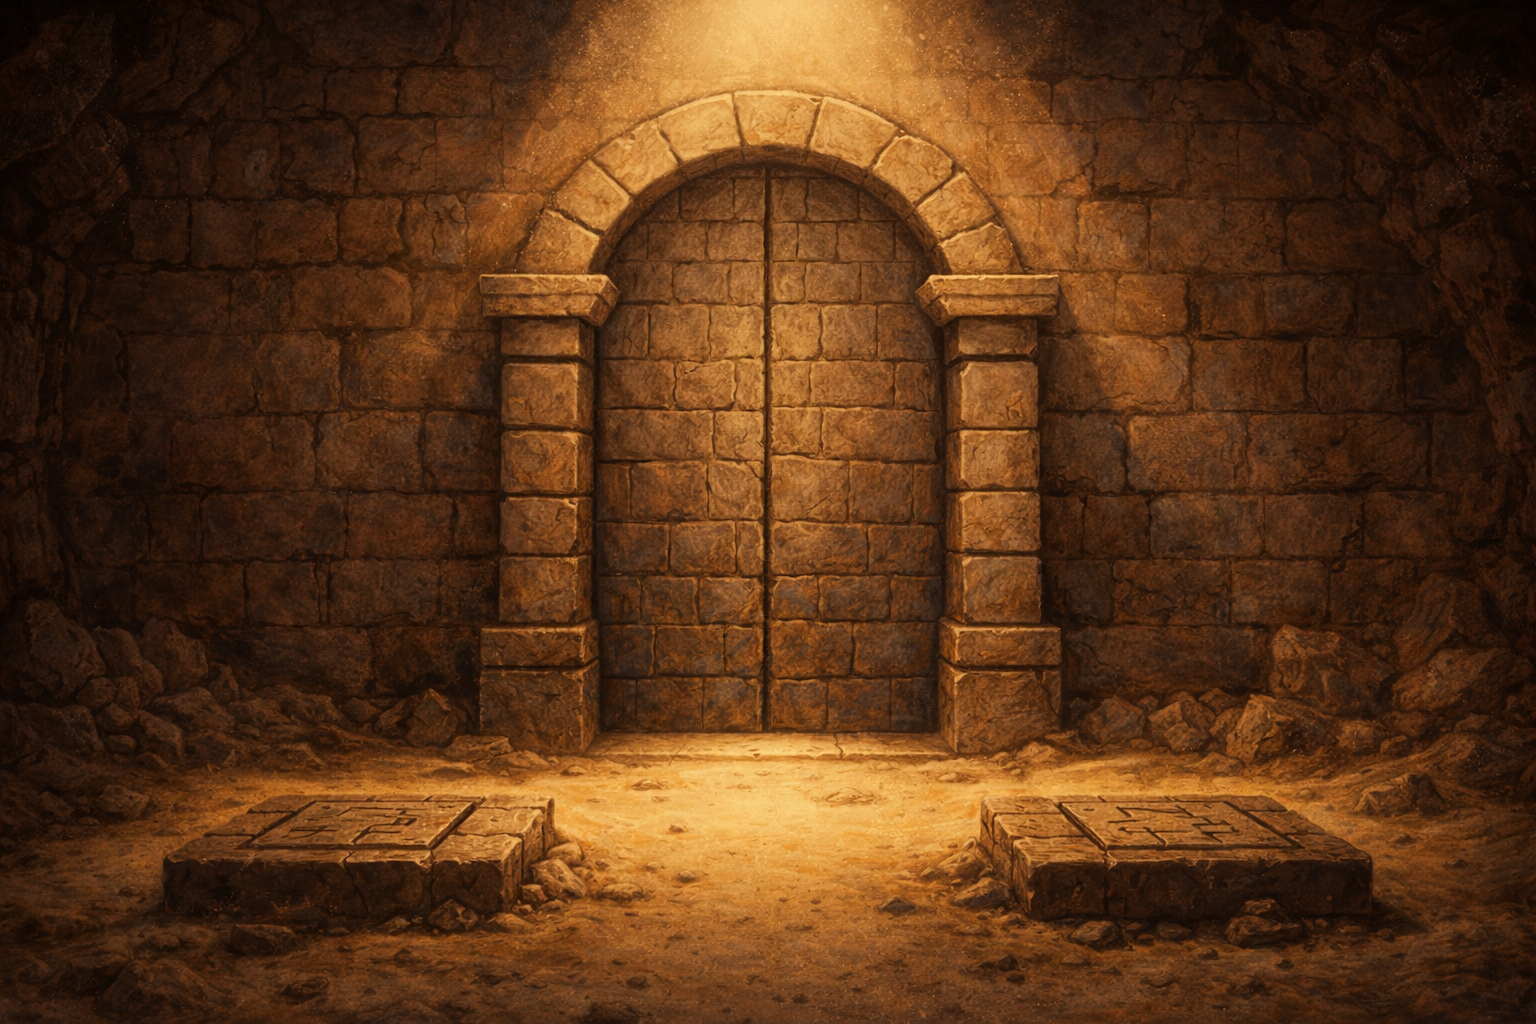
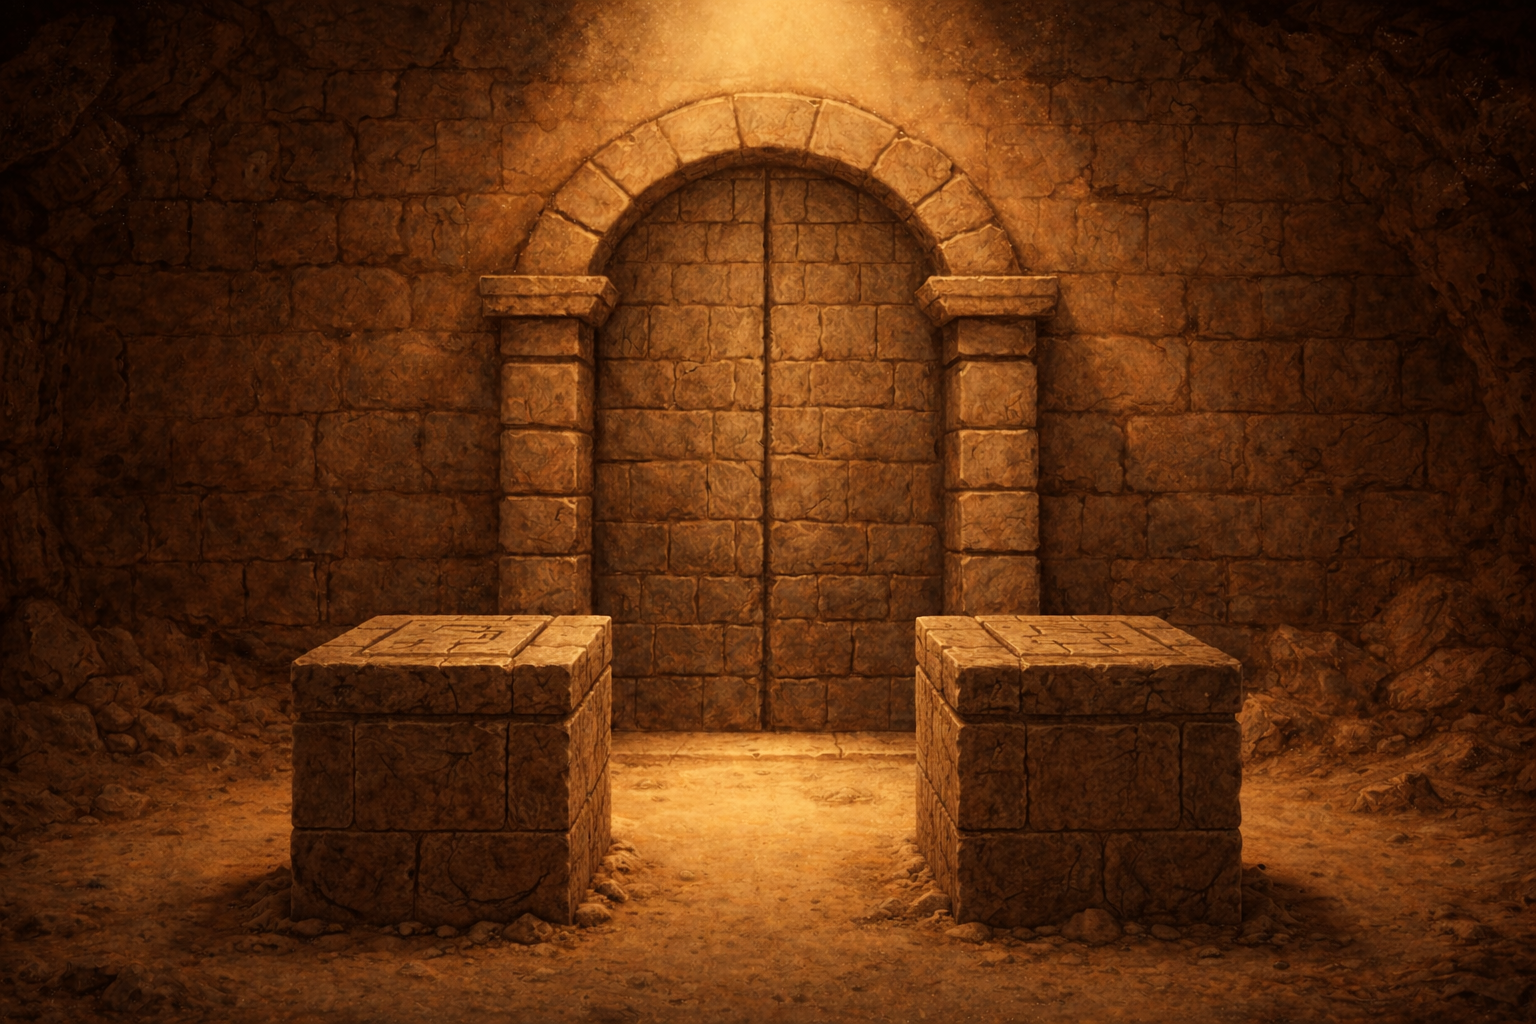
feat: Allow direct removal of weights from balance puzzle plates and remove the separate inventory UI.

diff --git a/src/features/encounter/puzzles/balance/BalancePuzzle.tsx b/src/features/encounter/puzzles/balance/BalancePuzzle.tsx
@@ -3,7 +3,6 @@ import { useTranslation } from 'react-i18next';
 import { PuzzleType, type PuzzleData } from '../../../../types/adventure.types';
 import { isBalanced, calculateTotalWeight } from './BalanceEngine';
 import { GateVisual } from './components/GateVisual';
-import { WeightInventory } from './components/WeightInventory';
 import styles from './BalancePuzzle.module.css';
 
 interface BalancePuzzleProps {
@@ -13,37 +12,26 @@ interface BalancePuzzleProps {
 
 export const BalancePuzzle = ({ data, onSolve }: BalancePuzzleProps) => {
 
+    // Initial full sets of weights
+    const getInitialWeights = (side: 'left' | 'right') => {
+        const initial = side === 'left' ? data.initialLeftWeight : data.initialRightWeight;
+        const options = side === 'left' ? data.leftOptions : data.rightOptions;
+
+        let sideOptions: number[] = [];
+        if (options) {
+            sideOptions = options.map(opt => typeof opt === 'number' ? opt : opt.value);
+        } else if (data.options) {
+            const allOpts = data.options.map(opt => typeof opt === 'number' ? opt : opt.value);
+            const midpoint = Math.ceil(allOpts.length / 2);
+            sideOptions = side === 'left' ? allOpts.slice(0, midpoint) : allOpts.slice(midpoint);
+        }
+
+        return [...(initial ? [initial] : []), ...sideOptions];
+    };
+
     // Current state of weights on plates
-    const [leftWeights, setLeftWeights] = useState<number[]>(() =>
-        data.initialLeftWeight ? [data.initialLeftWeight] : []
-    );
-    const [rightWeights, setRightWeights] = useState<number[]>(() =>
-        data.initialRightWeight ? [data.initialRightWeight] : []
-    );
-
-    // Inventory state (Left vs Right specific inventories)
-    const [leftInventory] = useState<number[]>(() => {
-        if (data.leftOptions) return data.leftOptions.map(opt => typeof opt === 'number' ? opt : opt.value);
-        if (!data.leftOptions && !data.rightOptions && data.options) {
-            const allOpts = data.options.map(opt => typeof opt === 'number' ? opt : opt.value);
-            const midpoint = Math.ceil(allOpts.length / 2);
-            return allOpts.slice(0, midpoint);
-        }
-        return [];
-    });
-    const [rightInventory] = useState<number[]>(() => {
-        if (data.rightOptions) return data.rightOptions.map(opt => typeof opt === 'number' ? opt : opt.value);
-        if (!data.leftOptions && !data.rightOptions && data.options) {
-            const allOpts = data.options.map(opt => typeof opt === 'number' ? opt : opt.value);
-            const midpoint = Math.ceil(allOpts.length / 2);
-            return allOpts.slice(midpoint);
-        }
-        return [];
-    });
-
-    // Track used indices to disable buttons
-    const [usedLeftIndices, setUsedLeftIndices] = useState<number[]>([]);
-    const [usedRightIndices, setUsedRightIndices] = useState<number[]>([]);
+    const [leftWeights, setLeftWeights] = useState<number[]>(() => getInitialWeights('left'));
+    const [rightWeights, setRightWeights] = useState<number[]>(() => getInitialWeights('right'));
 
     const [isSolved, setIsSolved] = useState(false);
 
@@ -51,33 +39,30 @@ export const BalancePuzzle = ({ data, onSolve }: BalancePuzzleProps) => {
     const [prevData, setPrevData] = useState(data);
     if (data !== prevData) {
         setPrevData(data);
-        setLeftWeights(data.initialLeftWeight ? [data.initialLeftWeight] : []);
-        setRightWeights(data.initialRightWeight ? [data.initialRightWeight] : []);
-        setUsedLeftIndices([]);
-        setUsedRightIndices([]);
+        setLeftWeights(getInitialWeights('left'));
+        setRightWeights(getInitialWeights('right'));
         setIsSolved(false);
     }
 
     const leftTotal = calculateTotalWeight(leftWeights);
     const rightTotal = calculateTotalWeight(rightWeights);
 
-    const handleAddWeight = (weight: number, index: number, side: 'left' | 'right') => {
+    const handleRemoveWeight = (index: number, side: 'left' | 'right') => {
         if (isSolved) return;
 
-        let nextLeftTotal = leftTotal;
-        let nextRightTotal = rightTotal;
+        let nextLeftWeights = [...leftWeights];
+        let nextRightWeights = [...rightWeights];
 
         if (side === 'left') {
-            if (usedLeftIndices.includes(index)) return;
-            setLeftWeights(prev => [...prev, weight]);
-            setUsedLeftIndices(prev => [...prev, index]);
-            nextLeftTotal += weight;
+            nextLeftWeights.splice(index, 1);
+            setLeftWeights(nextLeftWeights);
         } else {
-            if (usedRightIndices.includes(index)) return;
-            setRightWeights(prev => [...prev, weight]);
-            setUsedRightIndices(prev => [...prev, index]);
-            nextRightTotal += weight;
+            nextRightWeights.splice(index, 1);
+            setRightWeights(nextRightWeights);
         }
+
+        const nextLeftTotal = calculateTotalWeight(nextLeftWeights);
+        const nextRightTotal = calculateTotalWeight(nextRightWeights);
 
         if (isBalanced(nextLeftTotal, nextRightTotal) && !isSolved) {
             setIsSolved(true);
@@ -89,10 +74,8 @@ export const BalancePuzzle = ({ data, onSolve }: BalancePuzzleProps) => {
 
     const handleReset = () => {
         if (isSolved) return;
-        setLeftWeights(data.initialLeftWeight ? [data.initialLeftWeight] : []);
-        setRightWeights(data.initialRightWeight ? [data.initialRightWeight] : []);
-        setUsedLeftIndices([]);
-        setUsedRightIndices([]);
+        setLeftWeights(getInitialWeights('left'));
+        setRightWeights(getInitialWeights('right'));
     };
 
     const { t } = useTranslation();
@@ -107,27 +90,9 @@ export const BalancePuzzle = ({ data, onSolve }: BalancePuzzleProps) => {
                     rightTotal={rightTotal}
                     isSolved={isSolved}
                     onReset={handleReset}
-                    instruction={t('puzzle.balance.instruction', 'Place stones to open the gate!')}
+                    onRemoveWeight={handleRemoveWeight}
+                    instruction={t('puzzle.balance.instruction_remove', 'Remove stones to open the gate!')}
                 />
-
-                <div className={styles.splitInventoryContainer}>
-                    <WeightInventory
-                        title="Left Pile"
-                        side="left"
-                        inventory={leftInventory}
-                        usedIndices={usedLeftIndices}
-                        onAddWeight={handleAddWeight}
-                        isSolved={isSolved}
-                    />
-                    <WeightInventory
-                        title="Right Pile"
-                        side="right"
-                        inventory={rightInventory}
-                        usedIndices={usedRightIndices}
-                        onAddWeight={handleAddWeight}
-                        isSolved={isSolved}
-                    />
-                </div>
             </div>
 
         </div>

diff --git a/src/features/encounter/puzzles/balance/BalancePuzzle.module.css b/src/features/encounter/puzzles/balance/BalancePuzzle.module.css
@@ -74,7 +74,7 @@
     justify-content: space-between;
     width: 100%;
     /* These values need to be perfect to "touch" the plates in the image */
-    padding: 0 100px 105px 100px;
+    padding: 0 170px 180px 170px;
     position: absolute;
     bottom: 0;
     z-index: 5;
@@ -84,7 +84,7 @@
     display: flex;
     flex-direction: column;
     align-items: center;
-    width: 250px;
+    width: 200px;
     position: relative;
 }
 
@@ -97,6 +97,7 @@
     width: 100%;
     /* Tight stacking */
     margin-bottom: 0;
+    gap: 2px;
 }
 
 /* 4x Larger Magical Stone Block */
@@ -112,7 +113,6 @@
     align-items: center;
     user-select: none;
     position: relative;
-    filter: drop-shadow(0 10px 15px rgba(0, 0, 0, 0.6));
     /* Pull them closer together */
     margin-bottom: -95px;
 }
@@ -136,91 +136,10 @@
     z-index: 10;
 }
 
-/* Split Inventory Layout */
-.splitInventoryContainer {
-    display: flex;
-    justify-content: space-between;
-    width: 100%;
-    gap: 2rem;
-    max-width: 1000px;
-}
-
-.inventoryColumn {
-    flex: 1;
-    background: rgba(0, 0, 0, 0.3);
-    backdrop-filter: blur(4px);
-    border-radius: 12px;
-    border: 1px solid rgba(141, 110, 99, 0.2);
-    padding: 1rem;
-    display: flex;
-    flex-direction: column;
-    align-items: center;
-    transition: all 0.3s ease;
-}
-
-.inventoryColumn:hover {
-    background: rgba(0, 0, 0, 0.5);
-    border-color: rgba(141, 110, 99, 0.3);
-}
-
-.inventoryTitle {
-    margin-top: 0;
-    margin-bottom: 1.5rem;
-    text-align: center;
-    font-size: 1.2rem;
-    font-weight: bold;
-    color: #d7ccc8;
-    text-transform: uppercase;
-    letter-spacing: 3px;
-    border-bottom: 2px solid rgba(141, 110, 99, 0.3);
-    width: 100%;
-    padding-bottom: 0.8rem;
-}
-
-.weightsGrid {
-    display: flex;
-    flex-wrap: wrap;
-    justify-content: center;
-    gap: 15px;
-    width: 100%;
-}
-
-.emptySlot {
-    color: rgba(255, 255, 255, 0.2);
-    font-style: italic;
-    padding: 2rem;
-}
-
-/* Weight Items in Inventory - Keep them reasonably sized but larger than before */
-.weightItem {
-    width: 100px;
-    height: 70px;
+.clickableStone {
     cursor: pointer;
-    background-image: url('../../../../assets/images/puzzles/balance/weight.png');
-    background-size: contain;
-    background-repeat: no-repeat;
-    background-position: center;
-    background-color: transparent;
-    border: none;
-    display: flex;
-    justify-content: center;
-    align-items: center;
-    filter: drop-shadow(0 4px 8px rgba(0, 0, 0, 0.4));
-    transition: all 0.3s cubic-bezier(0.175, 0.885, 0.32, 1.275);
-    outline: none;
 }
 
-.weightItem:hover:not(.used) {
-    transform: translateY(-8px) scale(1.15);
-    filter: drop-shadow(0 12px 20px rgba(0, 0, 0, 0.6)) brightness(1.2);
-}
-
-.weightItem.used {
-    opacity: 0.2;
-    cursor: not-allowed;
-    filter: grayscale(1) contrast(0.5);
-    transform: scale(0.85);
-}
 
 .weightValue {
     font-size: 1.6rem;
@@ -233,10 +152,6 @@
         2px 2px 0 #000,
         0 0 10px rgba(0, 0, 0, 0.8);
     user-select: none;
-}
-
-.weightItemRight {
-    /* Optional differentiation if needed */
 }
 
 .stoneRight {

diff --git a/src/features/encounter/puzzles/balance/components/PressurePlate.tsx b/src/features/encounter/puzzles/balance/components/PressurePlate.tsx
@@ -5,25 +5,30 @@ interface PressurePlateProps {
     weights: number[];
     total: number;
     side: 'left' | 'right';
+    onRemove: (index: number) => void;
+    isSolved: boolean;
 }
 
-export const PressurePlate = ({ weights, total, side }: PressurePlateProps) => {
+export const PressurePlate = ({ weights, total, side, onRemove, isSolved }: PressurePlateProps) => {
     return (
         <div className={`${styles.plateContainer} ${side === 'left' ? styles.leftPlateContainer : styles.rightPlateContainer}`}>
             <div className={styles.stonesContainer}>
                 {weights.map((w, i) => (
                     <motion.div
                         key={`${side}-${i}`}
-                        className={`${styles.magicalStoneBlock} ${side === 'right' ? styles.stoneRight : ''}`}
+                        className={`${styles.magicalStoneBlock} ${side === 'right' ? styles.stoneRight : ''} ${!isSolved ? styles.clickableStone : ''}`}
                         initial={{ scale: 0, y: -20 }}
                         animate={{ scale: 1, y: 0 }}
                         transition={{ type: "spring", stiffness: 300, damping: 20 }}
+                        onClick={() => !isSolved && onRemove(i)}
+                        whileHover={!isSolved ? { scale: 1.05, filter: 'brightness(1.2)' } : {}}
+                        whileTap={!isSolved ? { scale: 0.95 } : {}}
                     >
                         <span className={styles.weightValue}>{w}</span>
                     </motion.div>
                 ))}
             </div>
-            {/* Optional: Show total weight if desired, or keep it hidden for a harder puzzle */}
+            {/* Total weight label */}
             <div className={styles.weightLabel}>{total}</div>
         </div>
     );

diff --git a/src/features/encounter/puzzles/balance/components/GateVisual.tsx b/src/features/encounter/puzzles/balance/components/GateVisual.tsx
@@ -10,6 +10,7 @@ interface GateVisualProps {
     rightTotal: number;
     isSolved: boolean;
     onReset: () => void;
+    onRemoveWeight: (index: number, side: 'left' | 'right') => void;
     instruction: string;
 }
 
@@ -20,6 +21,7 @@ export const GateVisual = ({
     rightTotal,
     isSolved,
     onReset,
+    onRemoveWeight,
     instruction
 }: GateVisualProps) => {
     const { t } = useTranslation();
@@ -46,11 +48,15 @@ export const GateVisual = ({
                     side="left"
                     weights={leftWeights}
                     total={leftTotal}
+                    onRemove={(index) => onRemoveWeight(index, 'left')}
+                    isSolved={isSolved}
                 />
                 <PressurePlate
                     side="right"
                     weights={rightWeights}
                     total={rightTotal}
+                    onRemove={(index) => onRemoveWeight(index, 'right')}
+                    isSolved={isSolved}
                 />
             </div>
 
